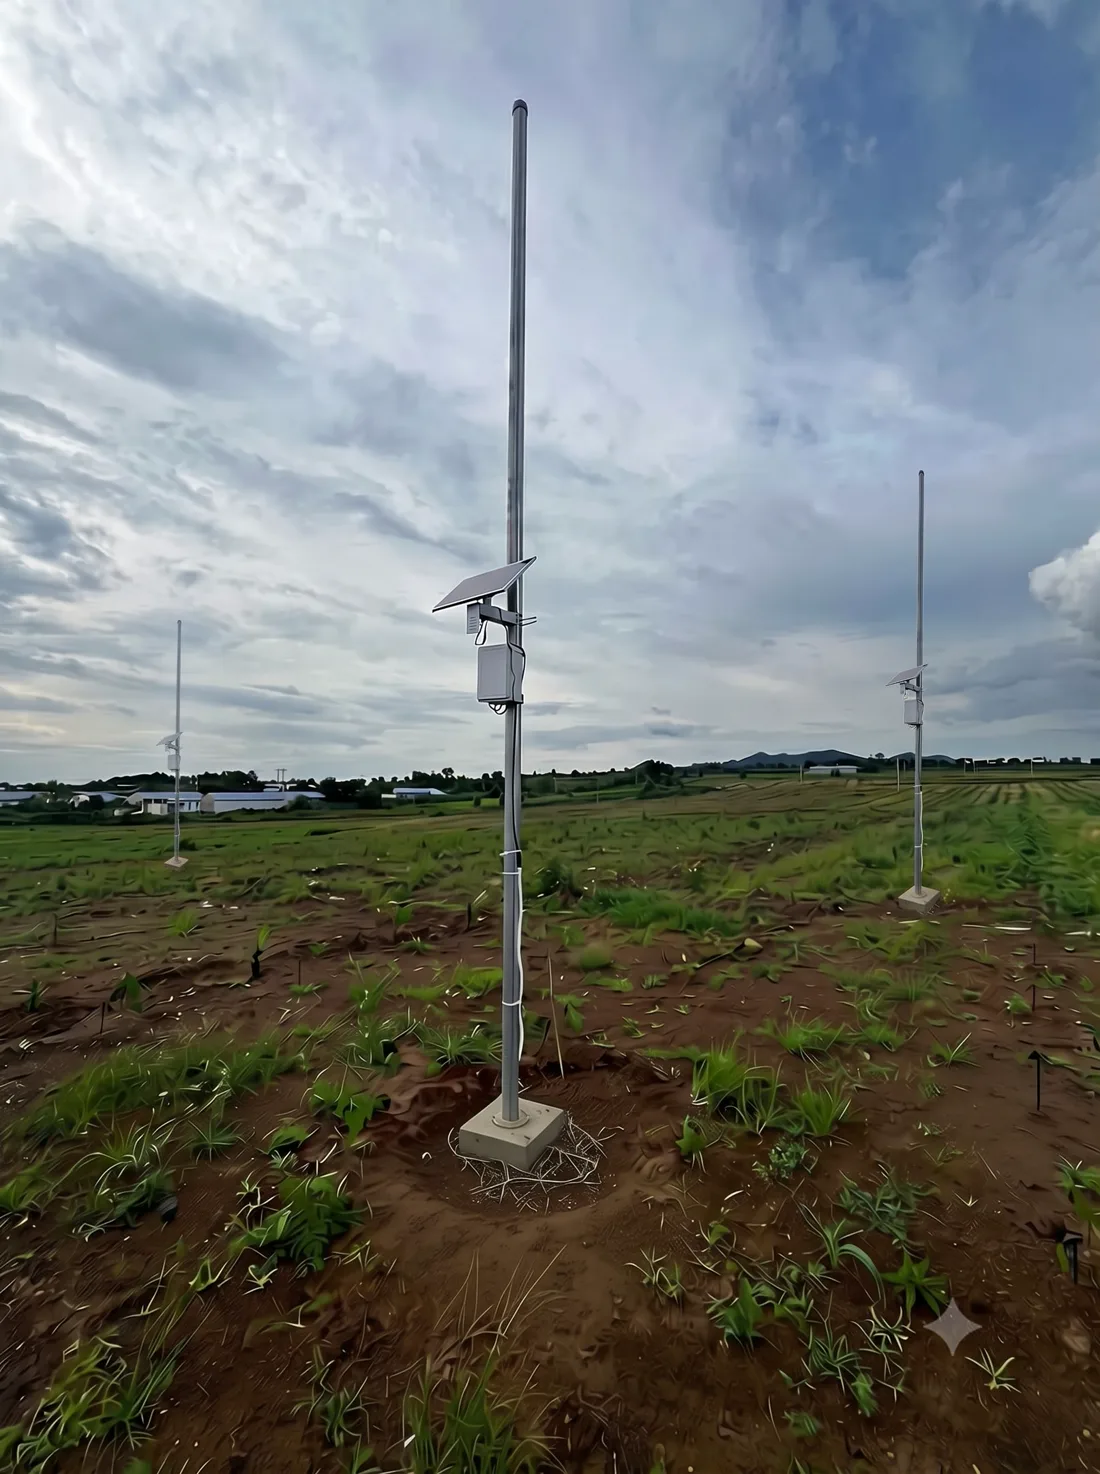
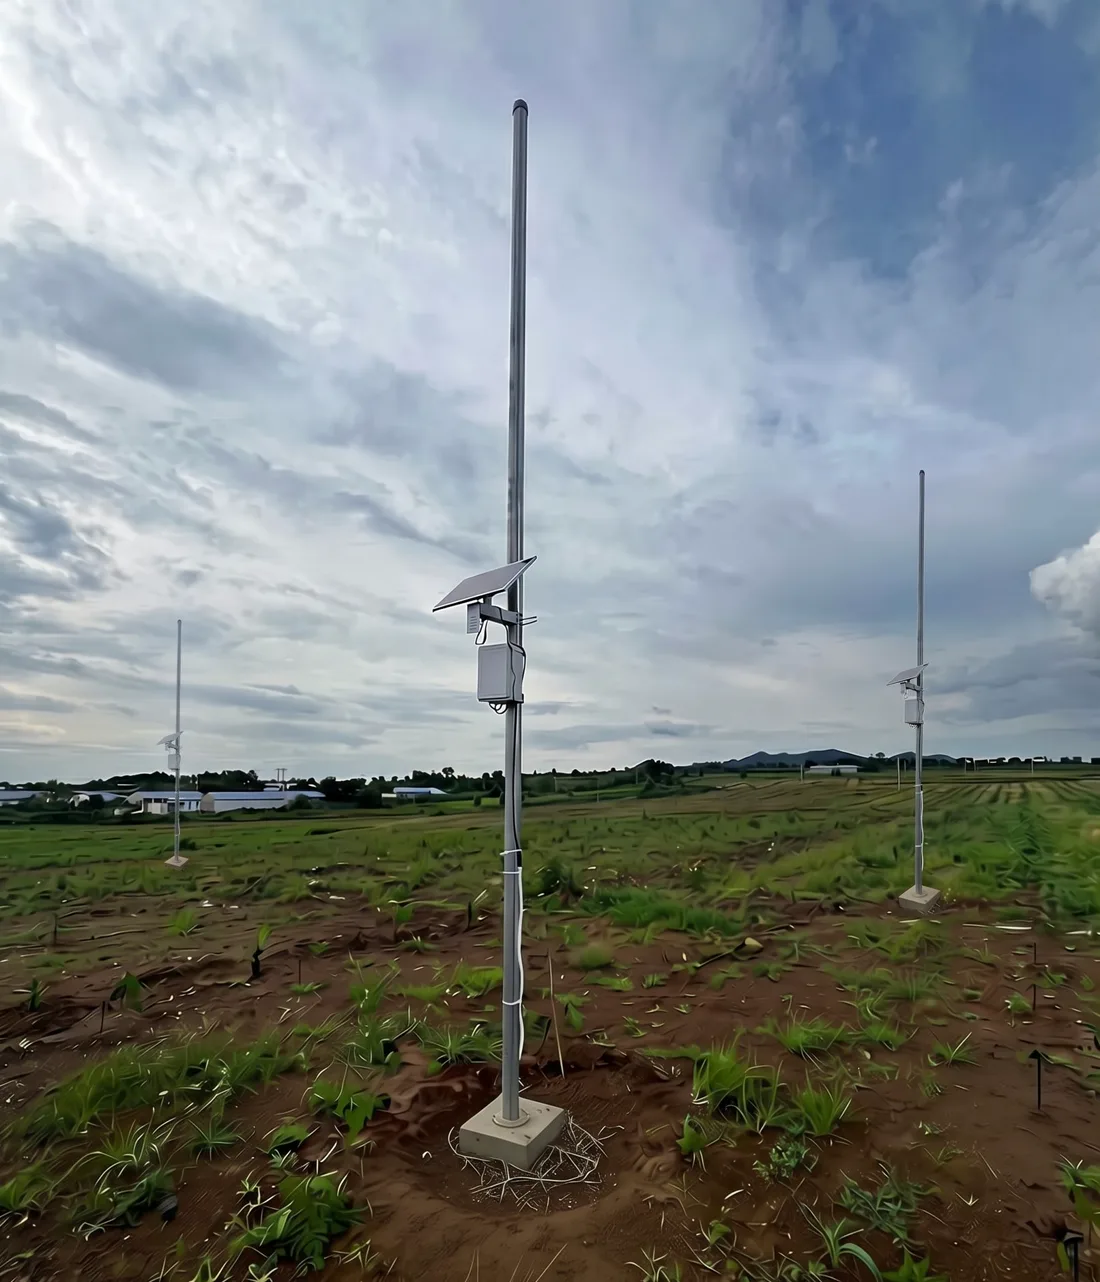
Ảnh cột camera: cắt bỏ góc dưới có dấu

diff --git a/mo-hinh.html b/mo-hinh.html
@@ -632,7 +632,7 @@ addEventListener('pageshow',function(e){if(e.persisted){R.classList.remove('fbl-
 <!-- ============ 02 · PHƯƠNG PHÁP ============ -->
 <section class="mt" id="phuong-phap" aria-labelledby="h-mt">
   <div class="wrap mt-grid">
-    <figure class="mt-ph rv-img"><img src="img/real-camera-rows.webp" width="1100" height="1474" alt="Cột camera và cảm biến giữa các luống cà phê non tại vườn Ia Ko" loading="lazy" style="object-position:50% 60%"><figcaption>Công nghệ đi vào từng luống</figcaption></figure>
+    <figure class="mt-ph rv-img"><img src="img/real-camera-rows.webp" width="1100" height="1282" alt="Cột camera và cảm biến giữa các luống cà phê non tại vườn Ia Ko" loading="lazy" style="object-position:50% 50%"><figcaption>Công nghệ đi vào từng luống</figcaption></figure>
     <div class="mt-copy">
       <span class="tag rv">02 · Phương pháp canh tác</span>
       <h2 id="h-mt" class="split">Áp dụng các phương pháp <span class="nw grad-d">canh tác hiện đại</span></h2>
